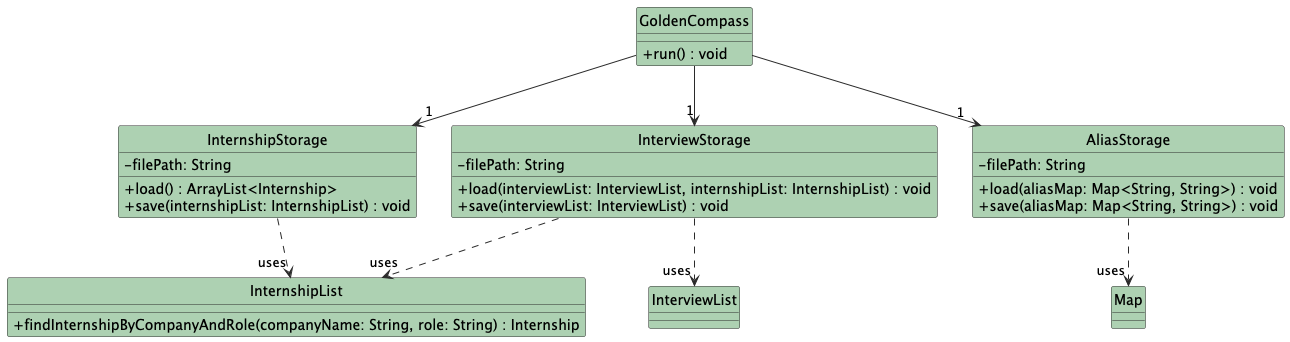
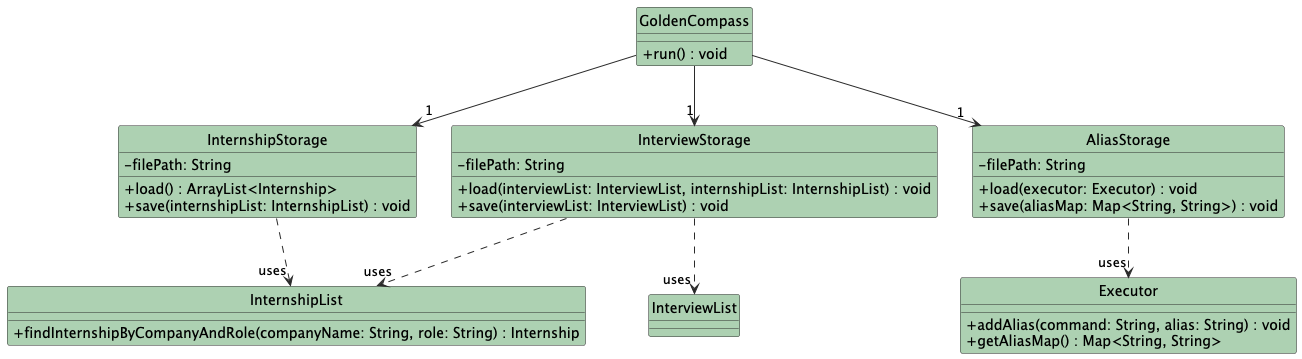
updated UG and DG for storage

diff --git a/docs/DeveloperGuide.md b/docs/DeveloperGuide.md
@@ -1462,46 +1462,45 @@ Potential improvements for future versions:
 
 #### Overview
 
-The Storage component is responsible for persisting user data across application sessions. It reads data from the local hard drive when GoldenCompass boots up and continuously writes data back to the disk during execution. To maintain the Single Responsibility Principle, the component is divided into three distinct classes:
+The Storage component is responsible for persisting user data across application sessions. It reads data from the local hard drive when GoldenCompass boots up and continuously writes data back to the disk during execution. To maintain the Single Responsibility Principle and implement robust **Self-Healing Data** architecture, the component is divided into three distinct classes:
 * `InternshipStorage`: Manages the saving and loading of `Internship` objects.
 * `InterviewStorage`: Manages `Interview` schedules and links them to existing internships.
-* `AliasStorage`: Manages user-defined command shortcuts.
+* `AliasStorage`: Manages user-defined command shortcuts and integrates with the command `Executor` for validation.
 
 #### Implementation
 
 The storage system is initialized inside the `GoldenCompass` main class.
 
 **Loading Data (Application Startup):**
-When the application starts, data is loaded in a strict sequence to resolve dependencies:
-1. `InternshipStorage.load()` is called first. It reads `data/internships.txt` line by line and splits the string using the `" | "` delimiter.
-2. If a third column (status) is present, the parser uses a `switch` statement on the parsed string (`OFFER`, `REJECTED`, or `PENDING`).
-- `case "OFFER"`: Calls `loadedInternship.markAsOffer()`.
-- `case "REJECTED"`: Calls `loadedInternship.markAsRejected()`.
-- `case "PENDING"`: Leaves the internship in its default initialization state.
-- `default`: Logs a warning for an unknown status to handle potential file corruption.
-3. `InterviewStorage.load()` is called next. Since interviews are tied to specific internships, this class parses `data/interviews.txt`, extracts the company name and role, and uses the composite key search `internshipList.findInternshipByCompanyAndRole(companyName, role)` to accurately link the newly loaded `Interview` back to its exact parent `Internship` object in memory.
-4. `AliasStorage.load()` reads `data/aliases.txt` and populates the `Executor`'s internal alias map.
+When the application starts, data is loaded in a strict sequence to resolve dependencies and sanitize inputs:
+1. `InternshipStorage.load()` is called first. It reads `data/internships.txt` line by line and parses strings using a flexible regex delimiter (`\\s*\\|\\s*`). It strictly enforces a 3-column format and skips duplicates or ghost entries (strings `< 2` characters).
+2. The parser evaluates the third column (status) using a `switch` statement:
+    - `case "OFFER"`: Calls `loadedInternship.markAsOffer()`.
+    - `case "REJECTED"`: Calls `loadedInternship.markAsRejected()`.
+    - `case "PENDING"`: Leaves the internship in its default initialization state.
+    - `default`: Defaults to `PENDING` and logs a warning to the UI for unknown statuses.
+3. `InterviewStorage.load()` is called next. It extracts the company name and role, and uses the composite key search `internshipList.findInternshipByCompanyAndRole(companyName, role)` to accurately link the newly loaded `Interview` back to its exact parent `Internship` object in memory. "Ghost" interviews with no matching internship are safely discarded.
+4. `AliasStorage.load(Executor executor)` is called last. Instead of blindly loading data, it delegates validation to the `Executor` via `executor.addAlias()`. If the executor throws a `GoldenCompassException` (e.g., trying to alias a non-existent command), the alias is rejected.
 
-**Saving Data (Execution Loop):**
-GoldenCompass utilizes an **Eager Saving Strategy**. Inside the main `while (true)` loop in `GoldenCompass.run()`, the application calls the `save()` method on all three storage classes immediately after every user command is executed. During `InternshipStorage.save()`, the system checks `hasOffer()` and `isRejected()` to accurately write the correct status string back into the text file.
+**Saving Data (Execution Loop & Auto-Cleanup):**
+GoldenCompass utilizes an **Eager Saving Strategy**. Inside the main `while (true)` loop in `GoldenCompass.run()`, the application calls the `save()` method immediately after every user command is executed. Additionally, if the `Storage` classes detect corrupted lines during the initial `load()` phase, they flag the file for **Auto-Cleanup**, immediately calling `save()` to overwrite the file with the sanitized memory state, thus deleting the corrupted text.
 
 #### Data Formats
 
-Data is stored in custom-delimited text files using the `" | "` (space-pipe-space) separator. This format was chosen because it is simple to parse using `String.split()` and remains highly readable if the user opens the file in a standard text editor.
+Data is stored in custom-delimited text files. The delimiter is a pipe `|` surrounded by optional spaces. This format was chosen because it is simple to parse and remains highly readable if the user opens the file in a standard text editor.
 
 **1. Internships (`data/internships.txt`)**
-Format: `TITLE | COMPANY_NAME | STATUS`
+Format: `TITLE | COMPANY | STATUS`
 * The `STATUS` column strictly maps to the application's internal state logic (`PENDING`, `OFFER`, or `REJECTED`).
 * Example: `Software Engineer | Google | OFFER`
 * Example: `Frontend Intern | Grab | PENDING`
 
 **2. Interviews (`data/interviews.txt`)**
-Format: `COMPANY_NAME | ROLE | ISO_LOCAL_DATE_TIME`
+Format: `COMPANY | TITLE | ISO_LOCAL_DATE_TIME`
 * Example: `Google | Software Engineer | 2026-03-25T14:30:00`
-* Example: `Grab | Data Analyst | null` *(If an interview is created but no date is set yet)*
 
 **3. Aliases (`data/aliases.txt`)**
-Format: `ALIAS_TRIGGER | ORIGINAL_COMMAND`
+Format: `ALIAS | COMMAND`
 * Example: `ls | list`
 * Example: `mk | mark`
 
@@ -1515,69 +1514,62 @@ The following sequence diagram illustrates the execution flow of the eager savin
 
 #### Data Validation
 
-Instead of user input validation, the Storage component implements data validation when loading from the text files to prevent crashes from manually edited or corrupted files:
+Instead of assuming perfect file integrity, the Storage component implements deep data validation when loading from text files to prevent crashes from manually edited or corrupted files:
 
 | Validation Layer | Description | Handling Strategy |
 |-----------------|-------------|-------------------|
-| **Length Check** | Verifies a line splits into the correct number of parts via the `" | "` delimiter. | Skips the line and logs a warning if `parts.length` is invalid. |
-| **Empty Value Check** | Ensures parsed titles and company names are not empty strings. | Skips the line to prevent creating ghost internships. |
-| **Date Format Check** | Verifies interview dates conform to `LocalDateTime` ISO formatting. | Catches `DateTimeParseException`, logs a warning, but still loads the interview without a date. |
-| **Null Date Check** | Verifies if the saved date string is explicitly `"null"`. | Skips date parsing entirely and safely initializes the `Interview` without a date to be handled by `nullsLast` sorting. |
+| **Regex Delimiter Check** | Uses `split("\\s*\\|\\s*")` to tolerate user spacing errors (e.g., `A|B` vs `A | B`). | Correctly splits values regardless of adjacent whitespace. |
+| **Strict Format Length** | Verifies a line splits into exactly the required number of parts (e.g., 3 for internships). | Skips the line and appends a warning to the UI error log. |
+| **Ghost/Short String Check** | Ensures parsed titles and company names are `>= 2` characters. | Skips the line to prevent creating empty "ghost" entries. |
+| **Duplicate Sweeping** | Scans the currently loaded list to verify the `Company + Role` combo doesn't already exist. | Keeps the first instance, skips subsequent duplicates, and logs a warning. |
+| **Command Validation** | `AliasStorage` attempts to add the alias via the `Executor`. | Catches `GoldenCompassException` for invalid commands and skips the alias. |
 
 #### Defensive Programming Features
 
 The implementation includes several defensive programming measures:
 
-**1. Assertions**: Verify internal state invariants before executing I/O operations.
-assert filePath != null && !filePath.trim().isEmpty() : "Storage file path cannot be null or empty";
-assert internshipList != null : "Cannot save a null InternshipList";
-
-**2. Logging**: Track file creation and data corruption for debugging.
-logger.log(Level.INFO, "Created missing data directory.");
-logger.log(Level.WARNING, "Skipped corrupted line: " + line);
-
-**3. Directory Auto-Creation**: The system proactively checks if the `data/` folder exists before attempting to write. If missing, it uses `parentDir.mkdirs()` to create it, preventing `FileNotFoundException`.
-
-**4. Graceful Exception Handling**: Standard `IOException` and `FileNotFoundException` errors are caught and handled. Instead of crashing the application, it alerts the user or starts with a fresh empty list.
+**1. UI Error Aggregation**: Instead of spamming the console with disjointed warnings, load errors are collected in a `StringBuilder` and passed to the `Ui` component as a single, formatted warning block, improving user experience.
+**2. Null-Safe Directory Auto-Creation**: The system proactively checks if the `data/` folder exists using `File#getParentFile()`. It includes a strict null-check (`parentDir != null && !parentDir.exists()`) before calling `mkdirs()` to prevent `NullPointerException` across different OS file-system roots.
+**3. Assertions**: Verify internal state invariants before executing I/O operations (e.g., `assert filePath != null : "File path cannot be null"`).
+**4. Graceful Date Handling**: Malformed ISO-8601 dates in `interviews.txt` are caught via `DateTimeParseException` and safely discarded without interrupting the overall loading sequence.
 
 #### Design Considerations
 
-**Aspect: Saving Strategy**
+**Aspect: Handling Corrupted File Data (Self-Healing vs. Abort)**
 
-* **Alternative 1 (Current Implementation): Eager Saving (Save on every loop)**
-    * **Description:** Inside `GoldenCompass.run()`, the application saves data to all three text files after every single command execution.
-    * **Pros:** Maximum data safety. If the user unexpectedly closes the terminal, experiences a power outage, or encounters a fatal runtime exception, no data is lost because the disk is always synchronized with the RAM.
-    * **Cons:** Higher disk I/O overhead, as the application rewrites the entire file even if a command didn't actually change any data (e.g., after a `list` command).
+* **Alternative 1 (Current Implementation): Self-Healing & Aggregated Reporting**
+    * **Description:** The parser skips corrupted lines, loads valid lines, aggregates error messages to show the user, and immediately overwrites the corrupted file with the sanitized state (`requiresCleanup` flag).
+    * **Pros:** Exceptionally robust. The application never crashes due to bad data, the user is informed of exactly what was skipped, and the corrupted file is automatically fixed.
+    * **Cons:** Slightly more complex loader logic.
 
-* **Alternative 2: Lazy Saving (Save on exit)**
-    * **Description:** The `save()` methods are only called once when the user types the `bye` command.
-    * **Pros:** Better performance due to minimized file I/O operations.
-    * **Cons:** High risk of data loss. If the application terminates abnormally, all progress made during that session is wiped out.
+* **Alternative 2: Silent Deletion**
+    * **Description:** Skip corrupted lines without informing the user.
+    * **Pros:** Simple code.
+    * **Cons:** Bad UX. The user might make a typo in `aliases.txt` and wonder why their command isn't working, not realizing the application silently deleted it.
+
+* **Alternative 3: Strict Abort**
+    * **Description:** Throw a fatal exception and refuse to start the app if any line is corrupted.
+    * **Pros:** Ensures 100% data integrity.
+    * **Cons:** Unacceptable for a consumer-facing app. One accidental keystroke in a `.txt` file shouldn't permanently brick the application.
 
 **Aspect: Relational Data Mapping (Interviews to Internships)**
 
-* **Alternative 1 (Current Implementation): Composite Key Reference (Company Name + Role)**
-    * **Description:** `InterviewStorage` saves both the Company Name and Role alongside the interview date. Upon loading, it searches the previously loaded `InternshipList` for an exact match of *both* fields (`findInternshipByCompanyAndRole`) to rebuild the object reference in memory.
-    * **Pros:** Prevents data duplication while accurately mapping interviews even when a user applies to multiple distinct roles at the exact same company. Keeps `interviews.txt` clean and adheres to the Single Source of Truth principle.
+* **Alternative 1 (Current Implementation): Composite Key Reference**
+    * **Description:** `InterviewStorage` saves both Company Name and Role. Upon loading, it searches the previously loaded `InternshipList` for an exact match (`findInternshipByCompanyAndRole`) to rebuild the object reference in memory.
+    * **Pros:** Prevents data duplication while accurately mapping interviews even when a user applies to multiple distinct roles at the exact same company. Adheres to the Single Source of Truth principle.
     * **Cons:** Requires `InternshipList` to be fully loaded *before* `InterviewList` can be loaded.
-
-* **Alternative 2: Deep Copy Storage**
-    * **Description:** `InterviewStorage` saves all details of the parent `Internship` alongside the interview date.
-    * **Pros:** Easier to parse since `InterviewStorage` wouldn't need access to `InternshipList`.
-    * **Cons:** Violates the DRY (Don't Repeat Yourself) principle. If an internship status is updated, it would have to be updated in both files.
 
 #### Test Coverage
 
-The storage components are covered by unit tests to ensure file I/O reliability:
+The storage components are covered by extensive unit tests to ensure file I/O reliability against edge cases:
 
 | Test Case                            | Description                                                 | Expected Outcome |
 |--------------------------------------|-------------------------------------------------------------|------------------|
-| `save_validList_writesCorrectly`     | Save a list with one item, then read the file manually      | File contains the exact formatted string |
+| `load_corruptedAndShortLines_skipsInvalidEntries` | Load file with missing delimiters and strings < 2 chars | Skips invalid lines, loads valid lines |
+| `load_duplicateEntries_keepsFirstAndSkipsRest` | Load file with identical `Company + Role` lines manually copy-pasted | Loads the first instance, safely ignores the duplicate |
+| `load_irregularSpacing_parsesCorrectly` | Load file with no spaces around pipes (`A|B|C`) | Regex perfectly parses the data into 3 parts |
+| `load_validAndCorruptedAliases_loadsOnlyValid` | Load alias pointing to a fake command (e.g., `invalid_alias \| fake`) | Executor rejects the bad alias via exception, only valid aliases map |
 | `save_multipleRoles_mapsCorrectly`   | Save two interviews for different roles at the same company | Both interviews are independently linked to the correct roles |
-| `load_missingFile_returnsEmptyList`  | Attempt to load when `data/` does not exist                 | Returns empty list, creates directory |
-| `load_corruptedFile_skipsLines` | Load a file with missing delimiters                         | Skips bad lines, loads valid lines |
-| `load_invalidDate_handlesGracefully` | Load interview with date `abc`                              | Interview loaded, date remains null |
-
 ## Product scope
 ### Target user profile
 

diff --git a/docs/UserGuide.md b/docs/UserGuide.md
@@ -394,40 +394,33 @@ Rejection builds character! Marked this internship as [REJECTED]:
 ```text
 Error: This internship has already been rejected!
 ```
-### Saving the data
+## Data Storage
 
-GoldenCompass saves your data to your hard disk automatically after any command that changes the data. There is no need to save manually!
+GoldenCompass automatically saves your data to your hard drive after any command that modifies your internships, interviews, or aliases. There is no need to manually save your data.
 
-Your tracker's data is safely stored in the `data/` folder in the same directory as the application.
+When you launch GoldenCompass, it will automatically load your saved data from previous sessions.
 
-**1. Internship Data (`data/internships.txt`)**
-Your internship applications are saved in the following format:
-`TITLE | COMPANY_NAME | STATUS`
+### File Locations
+By default, GoldenCompass stores its data in a folder named `data` located in the same directory as the GoldenCompass application.
+* **Internships:** `data/internships.txt`
+* **Interviews:** `data/interviews.txt`
+* **Aliases:** `data/aliases.txt`
 
-* **Default Status:** When you first add a new internship, its status is automatically saved as `PENDING`.
-* **Updating Status:** When you use commands like `mark` or `reject` to update an internship application, the new status seamlessly overwrites the old one on the exact same line. It will not create a new or duplicate entry.
-    * *Example:* If you receive an offer from Grab, the saved file updates to `Software Engineer | Grab | OFFER`. If you eventually decide to decline it and use the `reject` command, that exact line updates to `Software Engineer | Grab | REJECTED`.
-* **Deleting Data:** If you remove an internship using the `delete` or `clear-rejected` commands, that specific application is completely erased from the text file.
+### Manual File Editing (For Advanced Users)
+You can choose to manually edit the data files using a standard text editor (like Notepad or TextEdit). However, you must adhere strictly to the following formats.
 
-**2. Interview Data (`data/interviews.txt`)**
-Your scheduled interviews are saved in the following format:
-`COMPANY_NAME | ROLE | DATE_AND_TIME`
+**Data Formats:**
+* **`internships.txt`**: `TITLE | COMPANY | STATUS`
+* **`interviews.txt`**: `COMPANY | TITLE | DATE(YYYY-MM-DDTHH:mm)`
+* **`aliases.txt`**: `ALIAS | COMMAND`
 
-* **Date Format:** The date and time are saved in the standard ISO-8601 format (e.g., `2026-08-07T16:00`), where the `T` acts as a standard separator between the calendar date and the clock time. If an interview has no date set yet, it will be safely saved as `null` and displayed as "No date set" in the app.
-* **Automatic Sorting:** The application automatically sorts your interviews chronologically. The interview happening the soonest will always be stored and displayed at the top of the list. Any interviews marked as `null` ("No date set") are automatically sorted to the very bottom.
-* **Updating Dates:** If you use the `update-date` command to reschedule an interview, the new date and time will overwrite the old one on the exact same line. It will not create a new or duplicate entry.
-    * *Example:* If your file shows `Grab | Software Engineer | 2026-08-07T16:00` and you postpone the interview to the next day, the line updates directly to `Grab | Software Engineer | 2026-08-08T16:00`.
-* **Deleting Data:** If you cancel an interview using the `delete-interview` command, that specific interview entry is completely erased from the text file.
-
-**3. Alias Data (`data/aliases.txt`)**
-Your custom command shortcuts are saved in the following format:
-`ALIAS | ORIGINAL_COMMAND`
-
-* **Multiple Shortcuts:** GoldenCompass supports multiple aliases for a single command. If you create a new alias for a command that already has one, a new line will be added to the file instead of overwriting the previous shortcut.
-    * *Example:* If you have `ls | list` and you add `l | list`, both will be saved as separate lines, allowing you to use either `ls` or `l` to view your internships.
-* **Deleting Data:** If you remove a shortcut using the `remove-alias` command, that specific alias mapping is completely erased from the text file.
-
-> **Caution:** While you can open and read these text files, it is highly recommended not to manually edit them. If you do, please ensure you strictly follow the exact formatting above. Incorrect formatting, missing data, or missing ` | ` separators will cause the application to skip loading those specific lines to prevent crashing.
+**⚠ Auto-Healing & Data Protection System**
+GoldenCompass features a robust, self-healing storage system to protect your data from accidental corruption during manual editing:
+1. **Format Enforcement:** If a line does not match the exact format (e.g., missing a pipe `|`, or text that is too short), GoldenCompass will skip the corrupted line safely rather than crashing.
+2. **Duplicate Prevention:** If you accidentally paste the same data multiple times, the system will detect the duplicate, load only the first instance, and ignore the rest.
+3. **Ghost Link Protection:** If an interview is listed in `interviews.txt`, but the corresponding internship no longer exists in `internships.txt`, the "ghost" interview will be safely skipped.
+4. **Validation Check:** Any custom aliases manually entered that point to invalid commands will be blocked from loading.
+5. **Auto-Cleaning:** Any corrupted lines, duplicates, or invalid entries detected during startup will trigger a warning message detailing the exact errors. The system will then **automatically clean and overwrite** the text file to restore it to a healthy state.
 
 ## FAQ
 
